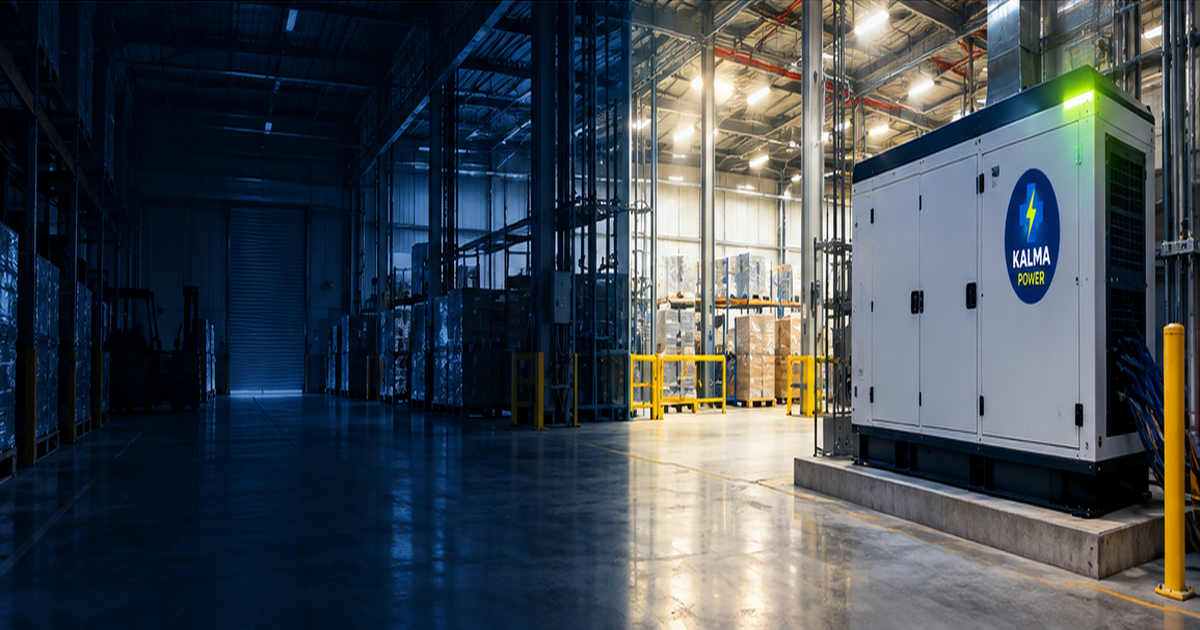
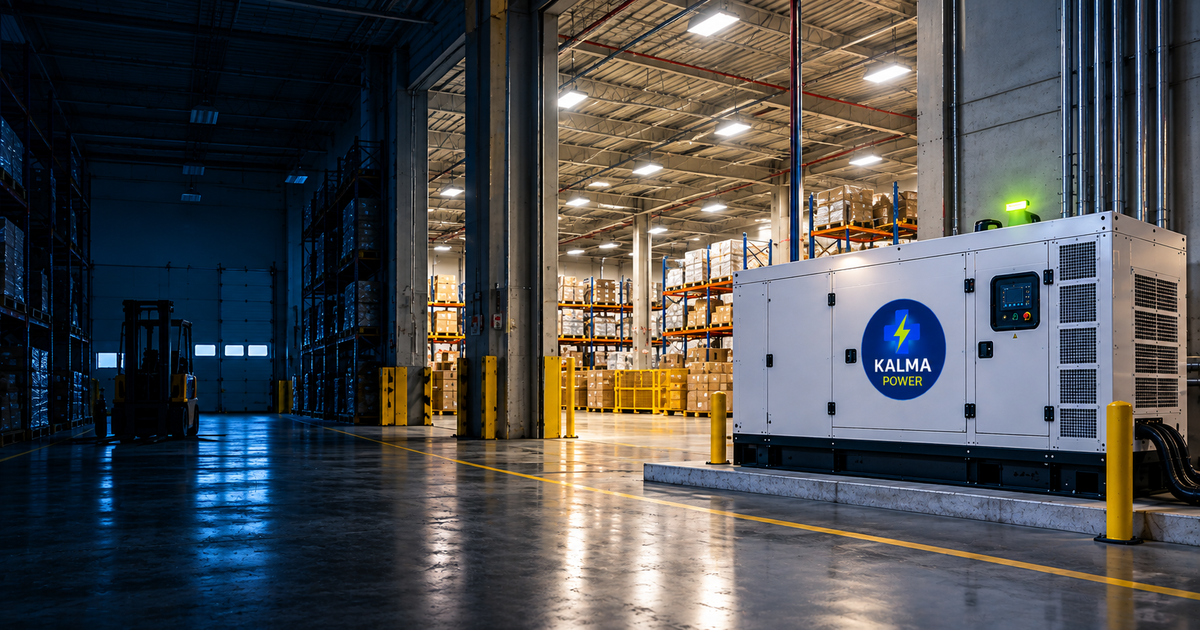
Reemplaza portadas del blog por las versiones corregidas
Claude-Session: https://claude.ai/code/session_0155X78PDBx3StaPNezc1CTv

diff --git a/lib/blog.ts b/lib/blog.ts
@@ -194,7 +194,7 @@ export const POSTS: Post[] = [
     readingMinutes: 7,
     cover: "/blog/costo-de-un-apagon-en-tu-empresa.png",
     coverAlt:
-      "Imagen referencial: nave industrial con una mitad sin luz y otra iluminada, con planta eléctrica diésel en cabina",
+      "Imagen referencial: almacén industrial con una zona a oscuras y otra iluminada, con planta eléctrica diésel en cabina",
     related: "errores-al-comprar-planta-electrica-diesel",
     blocks: [
       {
